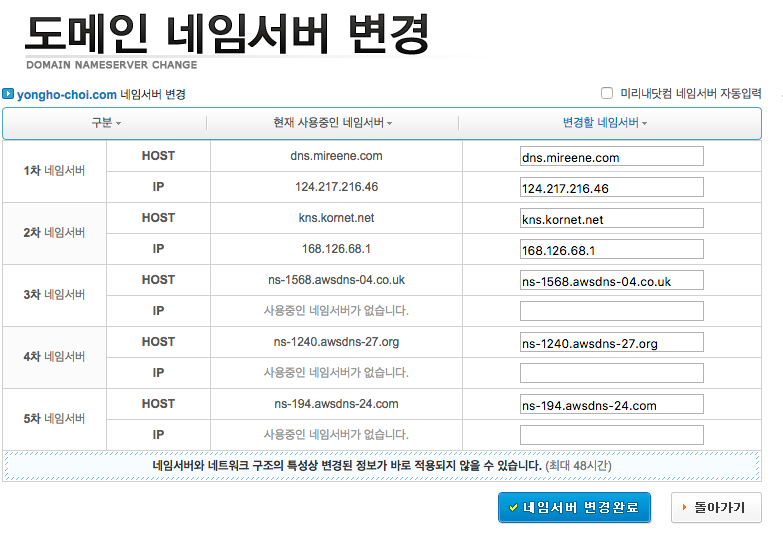
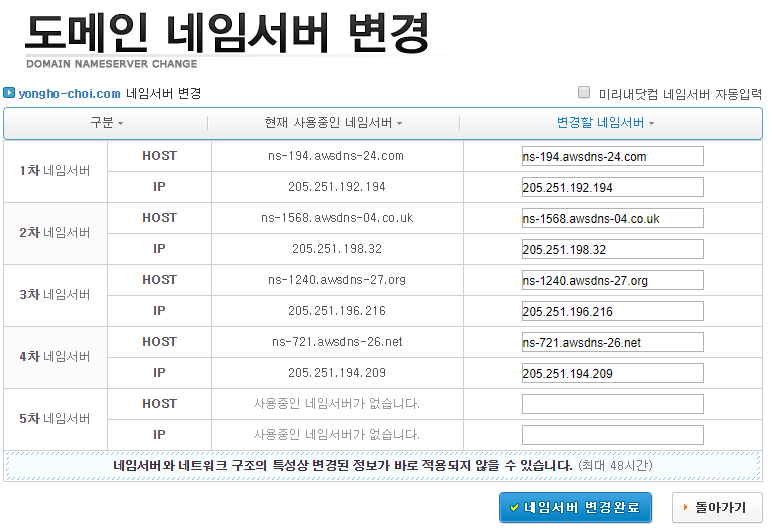
AWS Route53 내용 정리, Elasticsearch 테스트한 내용 정리

diff --git a/md/aws/[Elastic_Beanstalk]로드밸런서_구성.md b/md/aws/[Elastic_Beanstalk]로드밸런서_구성.md
@@ -1,0 +1,29 @@
+# 로드밸런서 구성
+
+* 기본적으로 포트 80으로 HTTP 트래픽을 수신
+  * 환경 내의 각 인스턴스 별 동일한 포트로 트래픽을 분산
+* 443 포트와 TLS 인증서를 사용하여 보안 연결 적용 가능
+* ELB는 상태 검사를 통해 EC2 인스턴스가 정상적인지 여부를 확인
+  * 지정된 간격으로 지정된 URL에 요청하여 상태 확인
+* ELB는 라운드로빈 방식으로 트래픽을 분배
+* Connection Draining : 오토 스케일링이 사용자의 요청을 처리 중인 EC2 인스턴스를 바로 삭제하지 못하도록 방지하는 기능
+  * 사용자 수가 줄어들면 오토 스케일링이 EC2 인스턴스를 삭제하는데 사용자가 해당 EC2 인스턴스에서 어떠한 작업을 수행 중이라면 바로 삭제하지 않고 요청을 처리할 수 있도록 지정한 시간만큼 대기
+  * 기다리는 동안에는 새로운 커넥션을 받지 않음.
+* Sticky Sessions : 사용자의 세션을 확인하여 적절한 EC2 인스턴스로 트래픽을 분배.
+  * Http 쿠키를 이용한 세션
+  * L7 로드밸런싱 기능
+  * 예를 들어 동일한 사용자가 서비스에 계속 접속하는 경우 처음 접속했던 EC2 인스턴스에 연결시켜 줌
+  * 이 기능을 사용하지 않으면 라운드 로빈 방식에 의해 EC2 인스턴스에 연결됨
+* Latency : ELB와 EC2 인스턴스 간의 지연시간
+* HTTP 2XX, 4XX, 5XX: EC2 인스턴스에서 리턴한 HTTP Response Code
+* ELB HTTP 4XX, 5XX: ELB 로드 밸런서에서 리턴한 HTTP Error Code
+* Surge Queue Length: ELB 로드 밸런서에서 EC2 인스턴스로 전달되지 못하고 큐에 남아있는 요청의 개수
+* Spillover Count: 서지 큐가 꽉 차서 ELB 로드 밸런서가 거부한 요청의 개수
+* 트래픽이 급격히 늘어날 것으로 예상되면 Pre-warming을 요청하여 미리 ELB의 처리량을 늘릴 수 있음.
+  * [기술 지원 문의]([https://aws.amazon.com/support/createCase/?type=technical_support](https://aws.amazon.com/support/createCase/?type=technical_support)
+
+
+
+## 참고
+
+* [부하 분산과 고가용성을 제공하는 ELB](http://pyrasis.com/book/TheArtOfAmazonWebServices/Chapter18)

diff --git a/md/aws/[Rout53]개념_및_사용방법.md b/md/aws/[Rout53]개념_및_사용방법.md
@@ -21,6 +21,8 @@
 ### 지원하는 레코드 형식
 
 * A 레코드 : 서버 IP 관리
+  * yongho-choi.com 이라는 도메인이 있다면 이 도메인이 접속할 IP를 지정
+  * blog.yongho-choi.com 과 같이 도메인을 등록할 수도 있다.
 * CNAME : 도메인 별칭 레코드
 * TXT 레코드 : 텍스트
 * MX 레코드 : 메일 서비스를 위함
@@ -89,6 +91,38 @@
 
   * DNS 확인 프로그램은 도메인 등록자 NS 레코드를 캐시하는데 레코드의 TTL(Time To Live)이 지정된 기간 동안 NS 레코드가 캐시되고 일반적으로 86,400 ~ 172,800(1~2일) 정도가 소요된다.
   * 이 시간은 서브 도메인을 만드는데 소요되는 시간이 아닌 Hosted zone을 생성하여 네임서버가 갱신되는 시간을 의미한다.
+
+* 제대로 잘 반영이 되었는지 확인하려면 [DNS Lookup](https://www.ultratools.com/tools/dnsLookupResult) 페이지로 접속해서 해당 도메인을 입력해본다.
+
+  ![](images/route53_8.png)
+
+  * 위와 같이 네임서버가 출력된다면 정상적으로 등록된 것이다.
+
+* 다음으로 해당 도메인을 통해 특정 IP에 접속하기 위해서 A 레코드를 등록한다.
+
+  1. 레코드셋 추가
+
+     ![](images/route53_6.png)
+
+  2. 해당 도메인에 IP 등록
+
+     ![](images/route53_7.png)
+
+  3. 정상적으로 등록되었는지 확인
+
+     ![](images/route53_9.png)
+
+     * A 레코드에 등록한 IP 주소가 셋팅 된 것을 확인
+
+  4. 접속 시 페이지 오류가 발생할 경우 DNS 캐시를 제거하거나 브라우저 캐시를 제거한 후 시도해 본다.
+
+     ```
+     > ipconfig /flushdns
+     ```
+
+     * 현재 로컬 PC에 연결된 DNS 서버에 아직 해당 도메인에 대한 정보가 갱신되지 않았을 수 있으므로 잠시 기다린 후 다시 시도해본다.
+
+  
 
 
 

diff --git a/md/ELK/[Elasticsearch]Elasticsearch_in_action_궁금증_정리.md b/md/ELK/[Elasticsearch]Elasticsearch_in_action_궁금증_정리.md
@@ -220,3 +220,11 @@
 
   * document는 삭제 요청 후 바로 삭제되지는 않고 삭제 표시만 해둔 상태에서 루씬 세그먼트가 비동기적으로 병합될 때 발생한다.
   * 전체 색인 삭제의 경우에는 병합 없이 디스크에서 파일을 삭제할 수 있기 때문에 하나 이상의 개별 도큐먼트 삭제보다 빠르다.
+
+* 매치 쿼리와 필터 쿼리의 차이점은?
+
+  * 매치 쿼리는 점수 계산에 의해 쿼리와 가장 일치하는 순서대로 결과를 받을 수 있다.
+  * 매치 쿼리는 검색을 수행하기 전에 분석을 수행한다.
+    * match, match_phrase와 같은 경우에는 분석을 수행하지만 term과 terms 쿼리는 분석을 수행하지 않는다. 
+    * term 쿼리의 경우 쿼리에 사용된 문자열 전체가 일치한 것이 검색되기 때문
+  * 필터 쿼리의 경우 점수 계산이 들어가지 않고 캐시가 가능하기 때문에 검색이 빠르다.

diff --git a/md/ELK/하이브_Elasticsearch_쿼리.md b/md/ELK/하이브_Elasticsearch_쿼리.md
@@ -1,0 +1,36 @@
+## 재화 소비량
+
+```json
+GET hive_user/7062524311363492765/_search
+{
+  "query": {
+    "bool": {
+      "must": [
+        {
+          "term": {
+            "title": "goods"
+          }
+        },
+        {
+          "term": {
+            "subTitle": "consume"
+          }
+        },
+        {
+          "range" : {
+            "detail.gold" : {
+              "gt" : 0
+            }
+          }
+        }
+      ]
+    }
+  },
+  "aggs" : {
+        "consume_goods" : { "sum" : { "field" : "detail.gold" } }
+    }
+}
+```
+
+* gold 부분을 특정 재화명으로 입력하면 해당 재화에 대한 정보 및 통계 출력
+
